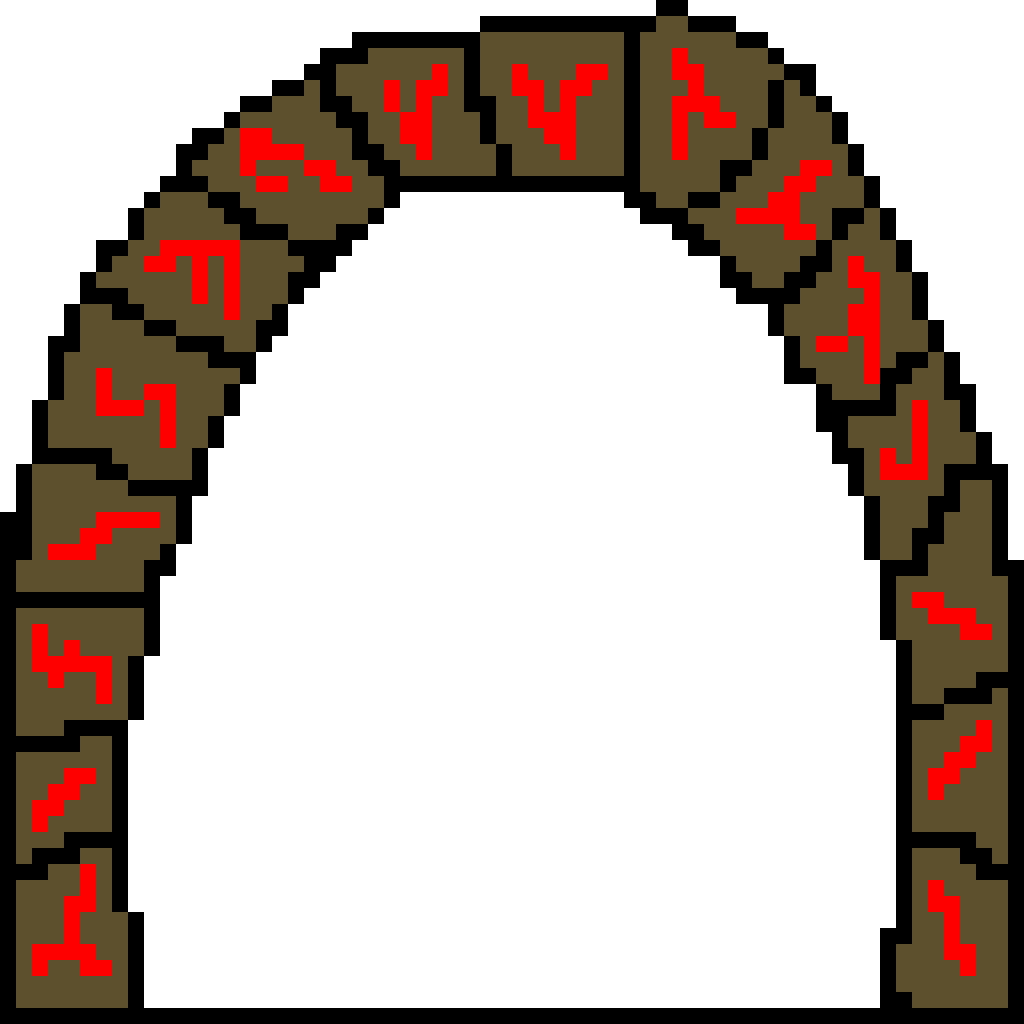
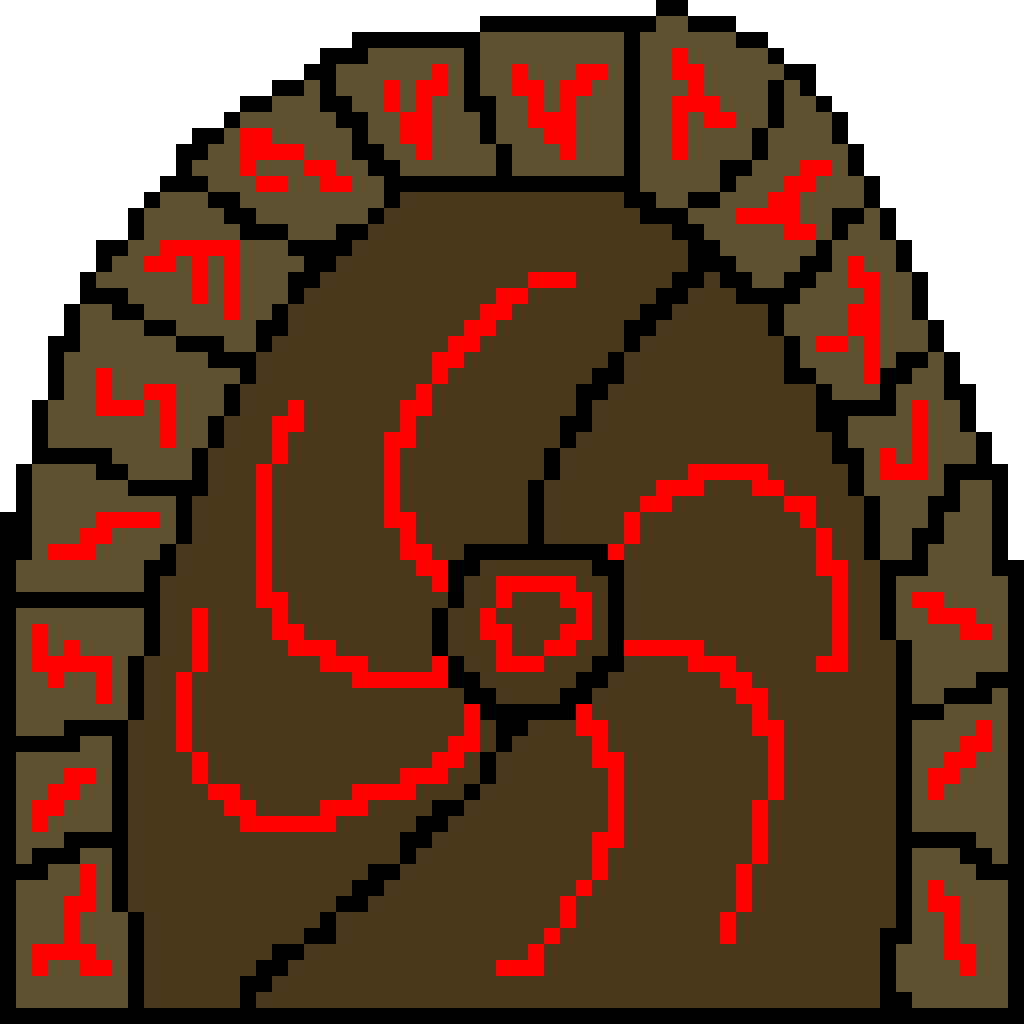
update

diff --git a/src/app.js b/src/app.js
@@ -68,6 +68,7 @@ import desertBackground from './assets/backgrounds/desertBackground.png';
 import stormBackground from './assets/backgrounds/stormBackground.png';
 import mudBackground from './assets/backgrounds/mudBackground.png';
 import towerBackground from './assets/backgrounds/towerBackground.png';
+import templeBackground from './assets/backgrounds/templeBackground.png';
 import boneStalker from './assets/desert/boneStalker.gif';
 import championStalker from './assets/desert/championStalker.gif';
 import desertGolem from './assets/desert/desertGolem.gif';
@@ -313,9 +314,9 @@ var earthText = [
 	{type: "start", timing: 0, text: "Youber recalls his grandfather talking about disappearing, as if it was inevitable. Though he never mentioned why or how. Perhaps the forest will hold some answers. Youber entered the woods, prepared for whatever perils might befall him."},
 	{type: "start", timing: 0.5, text: "Youber takes a moment to collect his thoughts. The creatures seem considerably agitated. Youber looks around and finds some interesting items. These must enhance the magic sack. A quick rest and then further into the woods."},
 	{type: "start", timing: 1, text: "Youber, feeling slightly empowered, presses through the ever thickening growth. The trees look more unnatural the farther Youber travels. Youber stumbles down an embankment and finds himself confronted by more creatures. They don't look particularly pleased..."},
-	{type: "start", timing: 1.5, text: "What's this? Youber collects a glowing orb, he can now add the magic of the forest to his cards. Youber looks around and sees a sign. It appears that Youber can choose to venture into the heart of the woods, take a magic chute to the Fire Fields, or follow the path South towards the Islands of Ruu. Decisions, decisions..."},
+	{type: "start", timing: 1.5, text: "What's this? Youber collects a glowing orb, he can now add the magic of the forest to his cards. The forest grow darker and more dangerous as Youber presses onward. This new power will be very useful."},
 	{type: "start", timing: 2, text: "Youber is undeterred by danger and finds his way into the heart of the forest. The trees give way to a clearing and Youber quickly realizes he has been surrounded...and there's something very large looming in the distance."},
-	{type: "start", timing: 2.5, text: "With the denizens of the forest defeated, they seem to relax for just a moment. The leader hands over a key. They haven't seen Youber's family, but they have suffered disappearances of there own. West, they claim, the sickness lies West. The creatures seems to be growing agitated once more. Youber presses onward to new lands..."},
+	{type: "start", timing: 2.5, text: "With the denizens of the forest defeated, they seem to relax for just a moment. The leader hands over a key. They haven't seen Youber's family, but they have suffered disappearances of there own. West, they claim, the sickness lies West. As Youber ventures away his bag begins to radiate a strong pink glow. Quickly, it subsides, leaving runes etched in the sides. Youber now has a magic bag."},
 	{type: "regular", timing: 0, text: "Youber decides his quest leads into the forests of Primafauna. He remembers hearing stories about the woods and the gentle creatures that lived there. Hopefully, Youber's journey will be unevent...what was that? The trees rustle and branches snap. Youber is not alone."},
 	{type: "regular", timing: 0.5, text: "Youber takes a moment to collect his thoughts. The creatures seem far from gentle. However, Youber will not give up, he can feel that he's getting closer. A quick rest and then further into the woods."},
 	{type: "regular", timing: 1, text: "Youber, feeling slightly empowered, presses through the ever thickening growth. Youber stumbles down an embankment and finds himself confronted by more creatures. They don't look particularly pleased..."},
@@ -335,9 +336,9 @@ var fireText = [
 	{type: "start", timing: 0, text: "Youber recalls his grandfather talking about disappearing, as if it was inevitable. Though he never mentioned why or how. Perhaps the Fire Fields will hold some answers. Youber entered the burning plains, prepared for whatever perils might befall him."},
 	{type: "start", timing: 0.5, text: "Youber wipes his brow and collects his thoughts. On the ground, Youber finds some red orbs. His magic sack glows in anticipation. Youber takes a quick break to make some modifications."},
 	{type: "start", timing: 1, text: "Youber treads carefully around the fire rivers and listening for any sulfuric explosions. The sky is always dark here, even when there are no clouds. Youber is starting to understand why anything that lived here would have poor manners. Speaking of which, here come some now..."},
-	{type: "start", timing: 1.5, text: "What's this? Youber collects a glowing orb, he can now add fire magic to his cards. A way out! The path Youber has been taking splits. Take a chute to the Primafauna Forest, travel South the the Howling Caverns, or continue to brave the smoldering wasteland. First a snack, then decisions."},
+	{type: "start", timing: 1.5, text: "What's this? Youber collects a glowing orb, he can now add fire magic to his cards. Youber must continue to brave the smoldering wasteland. First a snack, then onward."},
 	{type: "start", timing: 2, text: "The fire creatures grow more numerous as Youber presses onward. Youber notices large markings, something large lives here, splendid. The ground rumbles, not a fissure. Youber steels himself for conflict."},
-	{type: "start", timing: 2.5, text: "Youber defeats the leader and presses for information. A growing terror lives in the East. A key is pressed into Youber's hand. Youber knows that his quest must lead him there. Happy to be rid of this treacherous land, Youber continues his quest elsewhere."},
+	{type: "start", timing: 2.5, text: "Youber defeats the leader and presses for information. A growing terror lives in the East. A key is pressed into Youber's hand. Youber knows that his quest must lead him there. As Youber ventures away his bag begins to radiate a strong pink glow. Quickly, it subsides, leaving runes etched in the sides. Youber now has a magic bag."},
 	{type: "regular", timing: 0, text: "Youber adventures into the fearsome Fire Fields. The inhabitants have a fearsome reputation. Youber will have to be ready for anything. Perhaps here he will discover some clues about his family's disappearance."},
 	{type: "regular", timing: 0.5, text: "Although painful, this place is good for training. Youber feels his Fire powers growing. The more powerful he gets, the better chance of rescuing his family."},
 	{type: "regular", timing: 1, text: "Youber treads carefully around the fire rivers and listening for any sulfuric explosions. The sky is always dark here, even when there are no clouds. Youber is starting to understand why anything that lived here would have poor manners. Speaking of which, here come some now..."},
@@ -356,9 +357,9 @@ var waterText = [
 	{type: "start", timing: 0, text: "Youber recalls his grandfather talking about disappearing, as if it was inevitable. Though he never mentioned why or how. Perhaps the Islands of Ruu will hold some answers. Youber crosses into the tropical paradise, preparing for whatever perils might befall him."},
 	{type: "start", timing: 0.5, text: "Youber is taken aback at finding so much hostility in such a warm, welcoming place. At least he found some fancy looking gems. Youber instinctively feels that they will improve his magic sack in some way. Youber spends a moment discovering how."},
 	{type: "start", timing: 1, text: "Youber slowly makes his way to the larger islands. They are streaked with greys and blacks. Dull colors that feel out of place in this vibrant climate. Youber spies some monsters roaming the coast, they are headed his way..."},
-	{type: "start", timing: 1.5, text: "What's this? Youber collects a glowing orb, he can now add the magic of the islands to his cards. Youber find a shallow cave with two chutes inside. One leads into the forest region and the other to the Howling Caverns. Youber also feels that these islands hold more secrets. What will Youber do next?"},
+	{type: "start", timing: 1.5, text: "What's this? Youber collects a glowing orb, he can now add the magic of the islands to his cards. Youber feels that these islands hold more secrets. What will Youber do next?"},
 	{type: "start", timing: 2, text: "The largest island lies ahead, accompanied by the largest throng of monsters. The leader looms larger among them. Youber, determined to continue his quest, ventures forward, looking for answers."},
-	{type: "start", timing: 2.5, text: "The leader defeated, Youber manages to extract some useful information and a key. The dull palate is a new phenomenom here, creeping in from the North-West. Also, monsters have been disappearing from the Islands too. The monsters suddenly stop sharing and begin glaring at Youber. Youber gets the message and moves on."},
+	{type: "start", timing: 2.5, text: "The leader defeated, Youber manages to extract some useful information and a key. The dull palate is a new phenomenom here, creeping in from the North-West. Also, monsters have been disappearing from the Islands too. The monsters suddenly stop sharing and begin glaring at Youber. As Youber ventures away his bag begins to radiate a strong pink glow. Quickly, it subsides, leaving runes etched in the sides. Youber now has a magic bag."},
 	{type: "regular", timing: 0, text: "Youber's questing leads him to the Islands of Ruu. A tropical paradise, though Youber has never been too fond of the water."},
 	{type: "regular", timing: 0.5, text: "Youber is taken aback at finding so much hostility in such a warm, welcoming place. At least Youber is learning some of the Water power that permeates the islands. No family yet, but Youber know every step he gets closer."},
 	{type: "regular", timing: 1, text: "Youber slowly makes his way to the larger islands. They are streaked with greys and blacks. Dull colors that feel out of place in this vibrant climate. Youber spies some monsters roaming the coast, they are headed his way..."},
@@ -377,9 +378,9 @@ var windText = [
 	{type: "start", timing: 0, text: "Youber recalls his grandfather talking about disappearing, as if it was inevitable. Though he never mentioned why or how. Perhaps the towering crags will hold some answers. Youber crosses into the wind-swept landscape, preparing for whatever perils might befall him."},
 	{type: "start", timing: 0.5, text: "Dueling on the cliffs is dangerous, but it appears Youber has discovered some interesting gems. Perhaps Youber can use these to make his sack more powerful. A quick moment to rest and then the climing continues."},
 	{type: "start", timing: 1, text: "These caves don't just howl, they moan. And the smell is nigh unbearable. However, Youber is confident that he will only finish his quest if he braves the caves. Speaking of danger..."},
-	{type: "start", timing: 1.5, text: "What's this? Youber collects a glowing orb, he can now add the magic of the spires to his cards. Chutes! Pathways to other lands. One to the Fire Fields and the other to the tropical region. These could be useful to Youber. Youber can also continue scouring the cliffs for answers and secrets."},
+	{type: "start", timing: 1.5, text: "What's this? Youber collects a glowing orb, he can now add the magic of the spires to his cards. Youber continues to scour the cliffs for answers and secrets."},
 	{type: "start", timing: 2, text: "Youber reaches the top of the tallest spire. The howling is almost deafening, Youber enters the cavern and within moments realizes he is vastly outnumbered. Youber opens the magic sack..."},
-	{type: "start", timing: 2.5, text: "Youber has defended himself and conquered the champion of the cliffs. The champion hands over a key and tells Youber of a dark shroud that lies to the East. Creatures from the caves have been disapearing into the shroud. Youber learns all he can and then moves on."},
+	{type: "start", timing: 2.5, text: "Youber has defended himself and conquered the champion of the cliffs. The champion hands over a key and tells Youber of a dark shroud that lies to the East. Creatures from the caves have been disapearing into the shroud. As Youber ventures away his bag begins to radiate a strong pink glow. Quickly, it subsides, leaving runes etched in the sides. Youber now has a magic bag."},
 	{type: "regular", timing: 0, text: "Youber scales the heights of the Howling Caverns. These caves surely hold many secrets."},
 	{type: "regular", timing: 0.5, text: "Dueling on the cliffs is dangerous, but it appears Youber has discovered some Wind magic. A quick moment to rest and then the climing continues."},
 	{type: "regular", timing: 1, text: "These caves don't just howl, they moan. And the smell is nigh unbearable. However, Youber is confident that he will only finish his quest if he braves the caves. Speaking of danger..."},
@@ -2182,11 +2183,11 @@ const dirtDoorStats = {
 	image: dirtDoor,
 	sabCard: sabotage1,
 	element: "doorway",
-	effect: ["weakness", "wind", null]
+	effect: ["weakness", "water", null]
 };
 
 const earthMarkedDoorStats = {
-	name: "Earth Marked Door",
+	name: "Mysterious Door",
 	hp: 10,
 	attack: 0,
 	sabotage: 0,
@@ -2198,7 +2199,7 @@ const earthMarkedDoorStats = {
 };
 
 const fireMarkedDoorStats = {
-	name: "Fire Marked Door",
+	name: "Mysterious Door",
 	hp: 10,
 	attack: 0,
 	sabotage: 0,
@@ -2210,7 +2211,7 @@ const fireMarkedDoorStats = {
 };
 
 const waterMarkedDoorStats = {
-	name: "Water Marked Door",
+	name: "Mysterious Door",
 	hp: 10,
 	attack: 0,
 	sabotage: 0,
@@ -2222,7 +2223,7 @@ const waterMarkedDoorStats = {
 };
 
 const windMarkedDoorStats = {
-	name: "Wind Marked Door",
+	name: "Mysterious Door",
 	hp: 10,
 	attack: 0,
 	sabotage: 0,
@@ -2612,7 +2613,7 @@ function levelEarthTempleDistribution(randEnemyNum){
 			}else{
 				createEnemy = earthMarkedDoorStats;
 			}
-		}else if(lastDoorway === "Earth Marked Door"){
+		}else if(lastDoorway === "Mysterious Door"){
 			createEnemy = earthMarkedDoorStats;
 		}else{}
 	}else{
@@ -2658,7 +2659,7 @@ function levelEarthTempleDistribution(randEnemyNum){
 			}else{
 				createEnemy = prisonOrbStats;
 			}
-		}else if(lastDoorway === "Earth Marked Door"){
+		}else if(lastDoorway === "Mysterious Door"){
 			createEnemy = earthArtifactStats;
 		}else{}
 	}
@@ -2754,7 +2755,7 @@ function levelFireTempleDistribution(randEnemyNum){
 			}else{
 				createEnemy = fireMarkedDoorStats;
 			}
-		}else if(lastDoorway === "Earth Marked Door"){
+		}else if(lastDoorway === "Mysterious Door"){
 			createEnemy = fireMarkedDoorStats;
 		}else{}
 	}else{
@@ -2800,7 +2801,7 @@ function levelFireTempleDistribution(randEnemyNum){
 			}else{
 				createEnemy = prisonOrbStats;
 			}
-		}else if(lastDoorway === "Fire Marked Door"){
+		}else if(lastDoorway === "Mysterious Door"){
 			createEnemy = fireArtifactStats;
 		}else{}
 	}
@@ -2896,7 +2897,7 @@ function levelWaterTempleDistribution(randEnemyNum){
 			}else{
 				createEnemy = waterMarkedDoorStats;
 			}
-		}else if(lastDoorway === "Water Marked Door"){
+		}else if(lastDoorway === "Mysterious Door"){
 			createEnemy = waterMarkedDoorStats;
 		}else{}
 	}else{
@@ -2942,7 +2943,7 @@ function levelWaterTempleDistribution(randEnemyNum){
 			}else{
 				createEnemy = prisonOrbStats;
 			}
-		}else if(lastDoorway === "Water Marked Door"){
+		}else if(lastDoorway === "Mysterious Door"){
 			createEnemy = waterArtifactStats;
 		}else{}
 	}
@@ -3038,7 +3039,7 @@ function levelWindTempleDistribution(randEnemyNum){
 			}else{
 				createEnemy = windMarkedDoorStats;
 			}
-		}else if(lastDoorway === "Wind Marked Door"){
+		}else if(lastDoorway === "Mysterious Door"){
 			createEnemy = windMarkedDoorStats;
 		}else{}
 	}else{
@@ -3084,7 +3085,7 @@ function levelWindTempleDistribution(randEnemyNum){
 			}else{
 				createEnemy = prisonOrbStats;
 			}
-		}else if(lastDoorway === "Wind Marked Door"){
+		}else if(lastDoorway === "Mysterious Door"){
 			createEnemy = windArtifactStats;
 		}else{}
 	}
@@ -4704,19 +4705,19 @@ class LevelSelectScreen extends React.Component {
 		}
 		var hiddenLevels = [{hidden: true, urlShow: "url(" + earthSection + ")", urlHidden: "url(" + earthSectionHidden + ")"},{hidden: true, urlShow: "url(" + fireSection + ")", urlHidden: "url(" + fireSectionHidden + ")"},{hidden: true, urlShow: "url(" + waterSection + ")", urlHidden: "url(" + waterSectionHidden + ")"},{hidden: true, urlShow: "url(" + windSection + ")", urlHidden: "url(" + windSectionHidden + ")"},{hidden: true, urlShow: "url(" + desertSection + ")", urlHidden: "url(" + desertSectionHidden + ")"},{hidden: true, urlShow: "url(" + lavaSection + ")", urlHidden: "url(" + lavaSectionHidden + ")"},{hidden: true, urlShow: "url(" + mudSection + ")", urlHidden: "url(" + mudSectionHidden + ")"},{hidden: true, urlShow: "url(" + stormSection + ")", urlHidden: "url(" + stormSectionHidden + ")"},{hidden: true, urlShow: "url(" + towerSection + ")", urlHidden: "url(" + towerSectionHidden + ")"}];
 		var unlockLevels = this.state.levelsUnlocked;
-		if(levelCount[0] >= 1 || startingLevel === "earth" || levelCount[1] >= 2 || levelCount[2] >= 2){
+		if(levelCount[0] >= 1 || startingLevel === "earth" || levelCount[1] >= 3 || levelCount[2] >= 3){
 			unlockLevels[0] = true;
 			hiddenLevels[0].hidden = false;
 		}
-		if(levelCount[1] >= 1 || startingLevel === "fire" || levelCount[0] >= 2 || levelCount[3] >= 2){
+		if(levelCount[1] >= 1 || startingLevel === "fire" || levelCount[0] >= 3 || levelCount[3] >= 3){
 			unlockLevels[1] = true;
 			hiddenLevels[1].hidden = false;
 		}
-		if(levelCount[2] >= 1 || startingLevel === "water" || levelCount[0] >= 2 || levelCount[3] >= 2){
+		if(levelCount[2] >= 1 || startingLevel === "water" || levelCount[0] >= 3 || levelCount[3] >= 3){
 			unlockLevels[2] = true;
 			hiddenLevels[2].hidden = false;
 		}
-		if(levelCount[3] >= 1 || startingLevel === "wind" || levelCount[1] >= 2 || levelCount[2] >= 2){
+		if(levelCount[3] >= 1 || startingLevel === "wind" || levelCount[1] >= 3 || levelCount[2] >= 3){
 			unlockLevels[3] = true;
 			hiddenLevels[3].hidden = false;
 		}
@@ -5304,6 +5305,7 @@ class GameScreen extends React.Component {
 		var textArray;
 		if(level.includes("Temple")){
 			newStoryText = eval(level + "Text")[0].text;
+			document.getElementById("gameScreenBackground").style.backgroundImage = "url(" + templeBackground + ")";
 		}else{
 			textArray = eval(level + "Text");
 			for(var i=0; i<textArray.length; i++){
@@ -5322,28 +5324,28 @@ class GameScreen extends React.Component {
 		if(level === "fire"){
 			audioEl = document.getElementsByClassName("intense")[0];
 			document.getElementById("gameScreenBackground").style.backgroundImage = "url(" + fireBackground + ")";
-			if(unlockedSecrets[1] === true){
+			if(unlockedSecrets[1] === true || levelsBeaten.length < 3){
 			}else{
 				secrets = true;
 			}
 		}else if(level === "earth"){
 			audioEl = document.getElementsByClassName("mistyWoods")[0];
 			document.getElementById("gameScreenBackground").style.backgroundImage = "url(" + grassBackground + ")";
-			if(unlockedSecrets[0] === true){
+			if(unlockedSecrets[0] === true || levelsBeaten.length < 3){
 			}else{
 				secrets = true;
 			}
 		}else if(level === "water"){
 			audioEl = document.getElementsByClassName("brightStyle")[0];
 			document.getElementById("gameScreenBackground").style.backgroundImage = "url(" + waterBackground + ")";
-			if(unlockedSecrets[2] === true){
+			if(unlockedSecrets[2] === true || levelsBeaten.length < 3){
 			}else{
 				secrets = true;
 			}
 		}else if(level === "wind"){
 			audioEl = document.getElementsByClassName("findingOut")[0];
 			document.getElementById("gameScreenBackground").style.backgroundImage = "url(" + windBackground + ")";
-			if(unlockedSecrets[3] === true){
+			if(unlockedSecrets[3] === true || levelsBeaten.length < 3){
 			}else{
 				secrets = true;
 			}
@@ -6376,7 +6378,7 @@ class GameScreen extends React.Component {
 		if(enemyArray[currentEnemy].hp <= 0){
 			console.log("He's dead, pick another target.");
 		}else if(enemyArray[currentEnemy].name === "Prison Orb"){
-			if(cardElement === "neutral"){
+			if(cardElement === "earth"){
 				prisonOrbImg[0] = true;
 			}else if(cardElement === "fire"){
 				prisonOrbImg[1] = true;
@@ -6396,6 +6398,8 @@ class GameScreen extends React.Component {
 			}else if(enemyArray[currentEnemy].effect[0] === "impervious" && cardElement === enemyArray[currentEnemy].element){
 				heroAttack = 0;
 				this.props.error("It didn't have an effect.");
+			}else if(enemyArray[currentEnemy].effect[0] === "weakness" && cardElement === enemyArray[currentEnemy].effect[1]){
+				heroAttack = heroAttack * 2;
 			}else if(enemyArray[currentEnemy].effect[0] === "secret" && cardElement === enemyArray[currentEnemy].effect[2]){
 				var secretArray = ["earth", "fire", "water", "wind"];
 				for(var i=0; i<secretArray.length; i++){
@@ -6465,7 +6469,7 @@ class GameScreen extends React.Component {
 				}
 				var supCardValue = Math.floor(Math.random() * 21) + this.state.spookLevel;
 				if(supCardValue >= enemyLevel){
-					if(enemyArray[currentEnemy].effect[0] === "secret" || enemyArray[currentEnemy].element === "doorway" || enemyArray[currentEnemy].element === "object"){
+					if(enemyArray[currentEnemy].effect[0] === "secret" || enemyArray[currentEnemy].element === "doorway" || enemyArray[currentEnemy].element === "object" || this.props.magicBag === false){
 					}else{
 						this.props.gainSupCardReward(enemyArray[currentEnemy].supCard);
 						this.props.error("Gained Monster Prize!");
@@ -6842,7 +6846,11 @@ class GameScreen extends React.Component {
 				if(stageComplete === numberOfStages - 1 && this.props.bonusStage === true){
 					this.bonusStage();
 				}else if(stageComplete === numberOfStages - 1){
-					this.props.aux();
+					if(levelsBeaten.length === 0){
+						this.props.prizeChoice("cards");
+					}else if(levelsBeaten.length === 1){
+						this.props.prizeChoice("orbs");
+					}else{}
 				}else{
 					this.setState({
 						playerShield: this.props.shield,
@@ -8533,7 +8541,7 @@ class AuxilaryScreen extends React.Component {
 		}
 		if(level === 0){
 			levelCard = [neutral2, neutral3, neutral4, neutral5, neutral6];
-		}else if(this.props.prizeChoice === "cards"){
+		}else if(this.props.prizeChoice === "cards" || levelsBeaten.length === 1){
 			for(var i=0; i<rewardTier; i++){
 				for(var j=0; j<neutralCards.length; j++){
 					shuffle(neutralCards);
@@ -8575,7 +8583,7 @@ class AuxilaryScreen extends React.Component {
 		}else{
 			gemType = eval(level + "Gem");
 		}
-		if(this.props.prizeChoice === "orbs"){
+		if(this.props.prizeChoice === "orbs" || levelsBeaten.length === 2){
 			for(var i=0; i<levelGemsNum; i++){
 				levelGems.push(gemType);
 			}
